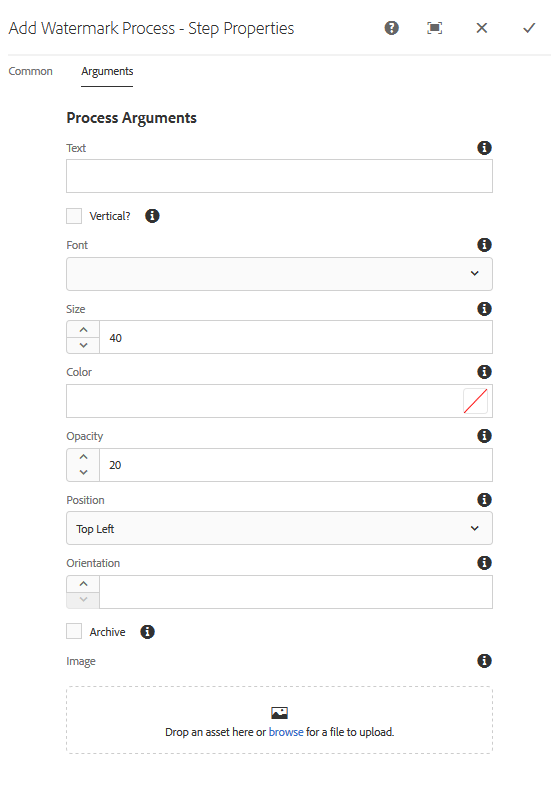
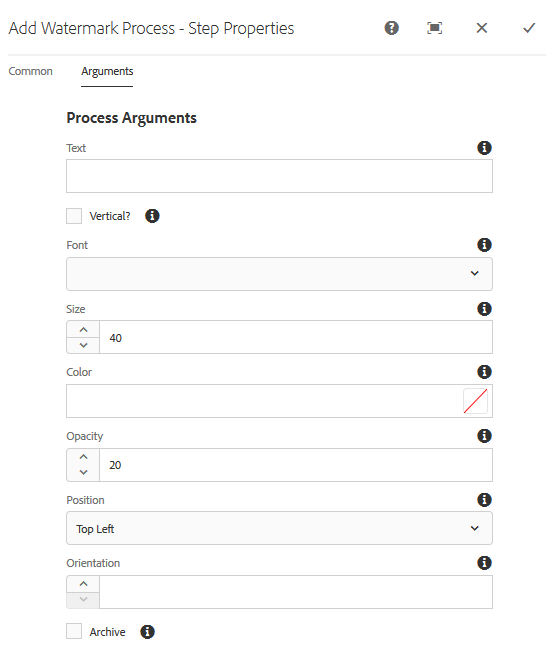
Limitations of asset watermarking via cqdoc-17411

diff --git a/help/assets/watermarking.md b/help/assets/watermarking.md
@@ -16,7 +16,7 @@ To be able to apply watermark on assets, add the watermarking step in the [!UICO
 1. From the side panel, drag the **[!UICONTROL Add Watermark]** step to the [!UICONTROL DAM Update Asset] workflow.
 
    ![Drag the [!UICONTROL Add Watermark] step and add to the [!UICONTROL DAM Update Asset] workflow](assets/add_watermark_step_aem_assets.png)
-2
+
    *Figure: Drag the [!UICONTROL Add Watermark] step and add to the [!UICONTROL DAM Update Asset] workflow.*
 
    >[!NOTE]
@@ -26,7 +26,7 @@ To be able to apply watermark on assets, add the watermarking step in the [!UICO
 1. Open the **[!UICONTROL Add Watermark]** step to display its properties.
 1. In the **[!UICONTROL Arguments]** tab, specify valid values in the various fields, including text, font type, size, color, position, orientation, and so on. To confirm the changes, click **[!UICONTROL Done]**.
 
-   ![Provide the arguments in the add watermark step in Assets](assets/arguments_add_watermark_aem_assets.png)
+   ![Provide the arguments in the add watermark step in [!DNL Assets]](assets/arguments_add_watermark_aem_assets.png)
 
    *Figure: Provide the arguments in the add watermark step in [!DNL Assets].*
 
@@ -34,3 +34,8 @@ To be able to apply watermark on assets, add the watermarking step in the [!UICO
 1. From the [!DNL Assets] user interface, upload a sample asset. The watermark appears with the font size, color and so on, at the position you configured in the above steps.
 
 To watermark PDF documents programmatically or with dynamic information, consider using [Experience Manager Document Services](/help/forms/using/overview-aem-document-services.md) offering.
+
+## Tips and limitations {#tips-limitations}
+
+* Only text-based watermarks are supported. Images are not used as watermarks, even though you can upload images when creating the [!UICONTROL Add Watermark Process].
+* Only PNG and JPEG files are supported to be watermarked. Other asset formats are not watermarked.
